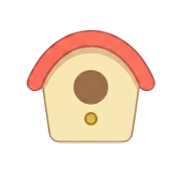
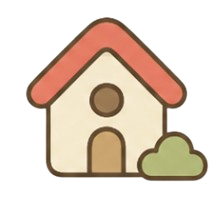
아이콘 변경

diff --git a/src/components/layout/Sidebar.jsx b/src/components/layout/Sidebar.jsx
@@ -1,13 +1,14 @@
 import { useNavigate } from 'react-router-dom';
 import { authApi } from '../../api';
 import homeIcon from '../../assets/sidebar_home.png';
+import myInfoIcon from '../../assets/sidebar_myinfo.png';
 import noteIcon from '../../assets/sidebar_note.png';
 import './Sidebar.css';
 
 const navItems = [
   { key: 'main', label: '홈', path: '/main', icon: homeIcon },
   { key: 'history', label: '기록', path: '/training-history', icon: noteIcon },
-  { key: 'mypage', label: '내 정보', path: '/mypage', icon: noteIcon },
+  { key: 'mypage', label: '내 정보', path: '/mypage', icon: myInfoIcon },
 ];
 
 function Sidebar({ activeKey = 'main' }) {
